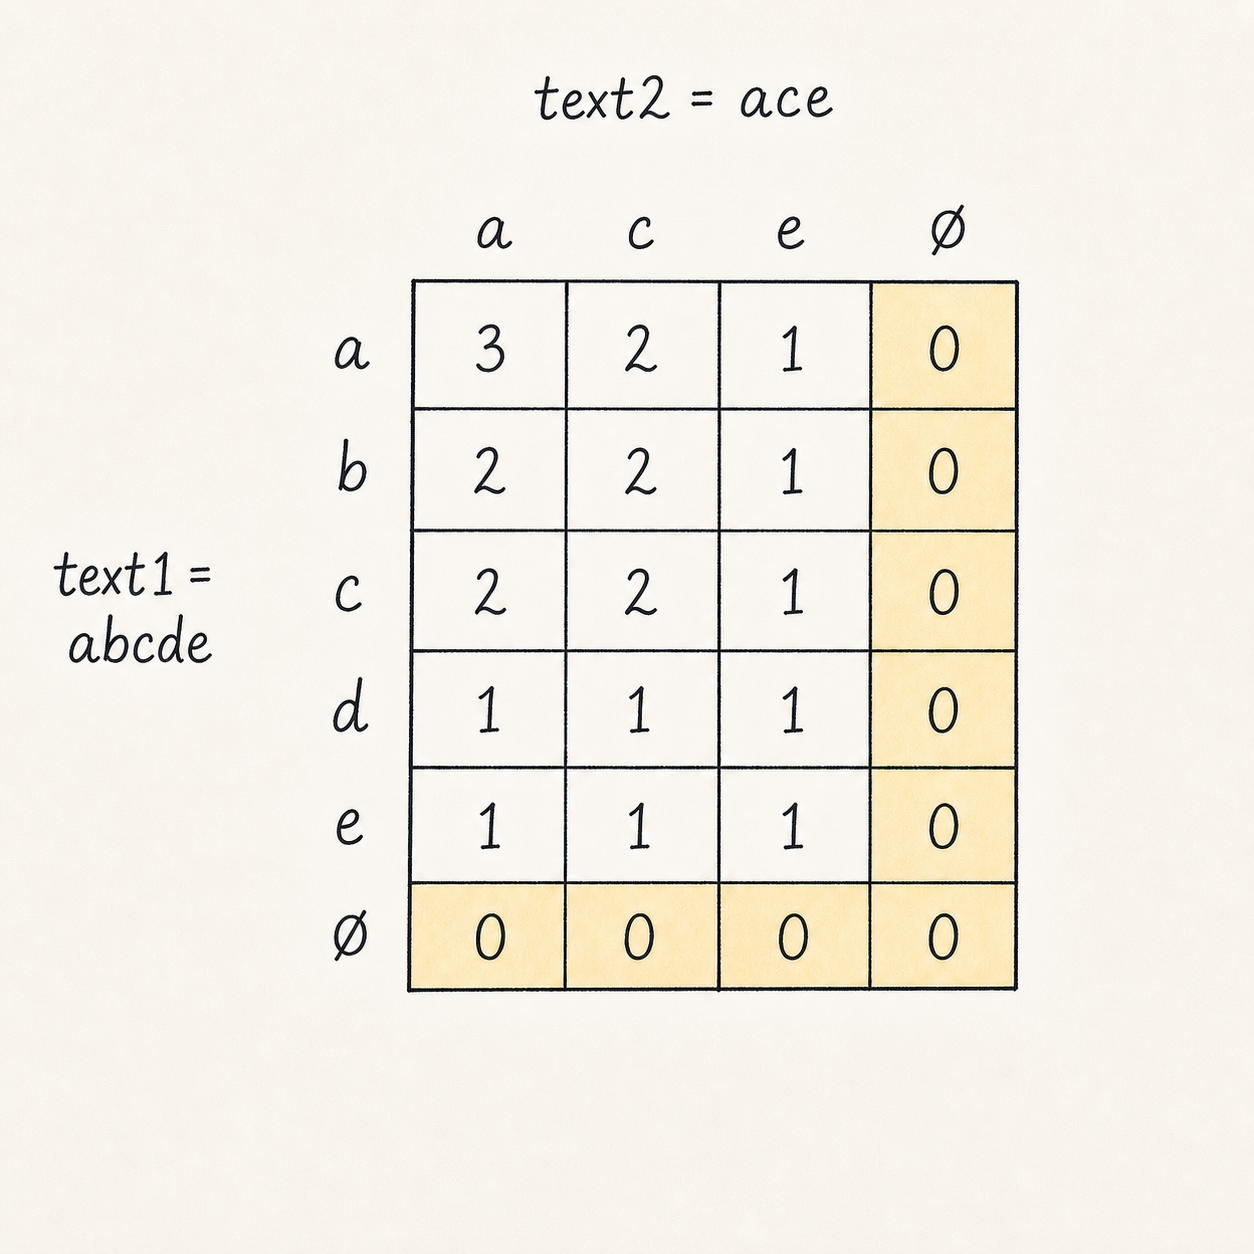
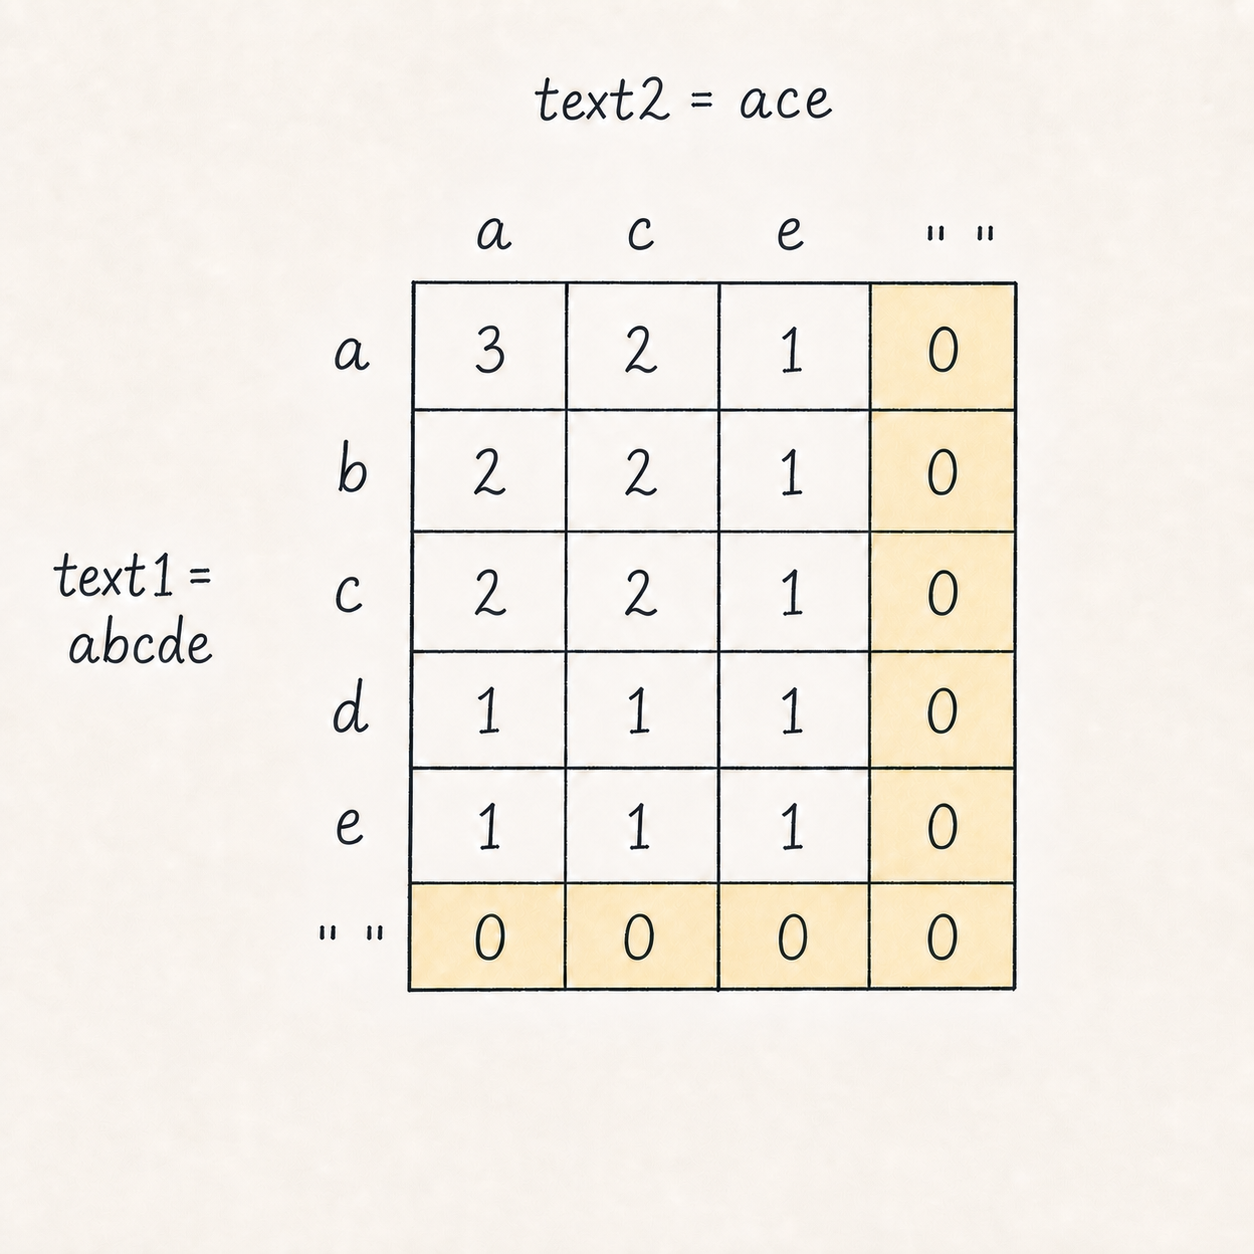
Refine DP blog explanation and table labels

diff --git a/_posts/2026-08-22-top-down-vs-bottom-up-dp.md b/_posts/2026-08-22-top-down-vs-bottom-up-dp.md
@@ -3,7 +3,7 @@ title: "Why Top-Down DP Feels Easier to Derive"
 date: 2026-08-22 00:00:00 +0530
 categories: [Algorithms, Dynamic Programming]
 tags: [dynamic-programming, top-down, bottom-up, memoization, tabulation, lcs]
-description: "Why top-down DP solutions are often easier to derive and remember, and where bottom-up still wins through control and optimization."
+description: "Why top-down DP solutions are often easier to derive and remember, and how bottom-up provides more control and optimization opportunities."
 image:
   path: /assets/img/posts/top-down-vs-bottom-up-dp-cover-v3.png
   alt: A programmer easily retracing a top-down solution while struggling to derive a bottom-up DP table
@@ -40,6 +40,8 @@ A top-down state can be written as:
 solve(i, j)
 ```
 
+Here, `i` represents a position in `text1`, and `j` represents a position in `text2`. Both start at `0`, so the initial state is `solve(0, 0)`.
+
 It asks:
 
 > What is the LCS of the two strings starting at positions `i` and `j`?
@@ -66,9 +68,13 @@ The state and recurrence follow directly from the question:
 ```text
 Do the current characters match?
 
-Yes → count the character and move forward in both strings
-No  → do not count either character yet; move forward in one string at a time and keep the better answer
+Yes → Count the character and move forward in both strings
+No  → Do not count either character yet. Move forward in one string at a time and keep the better answer
 ```
+
+This mirrors how humans naturally reason about a problem: start with the main question, then ask what is needed to achieve the answer. We begin with the target state, `solve(0, 0)`, and ask for the smaller states needed to answer it. We do not need to start by listing every base state or deciding how an entire table should be traversed.
+
+The call stack also handles the dependency order for us. When `solve(i, j)` needs another state, it calls that state and waits for its answer before continuing. The base cases still need to be defined, but there is no need to arrange all subproblems into a global evaluation order or design nested loops before writing the recurrence.
 
 The recursive solution will calculate the same `(i, j)` states more than once, so the next step is to store their answers.
 
@@ -78,7 +84,7 @@ The memoization table also follows naturally from the state:
 memo[i][j] = answer to solve(i, j)
 ```
 
-The state has two changing values: `i`, a position in `text1`, and `j`, a position in `text2`. So the memo table obviously needs two dimensions:
+The state has two changing values: `i`, a position in `text1`, and `j`, a position in `text2`. That makes the table dimensions obvious. This is a two-dimensional DP with one axis for `i` and another for `j`:
 
 ```go
 memo := make([][]int, len(text1))
@@ -90,13 +96,11 @@ for i := range memo {
 }
 ```
 
-This is a two-dimensional DP problem because every unique subproblem is identified by the pair `(i, j)`. The table dimensions were not invented separately; they came directly from the question represented by `solve(i, j)`.
-
 After evaluating `solve(0, 0)` for `"abcde"` and `"ace"`, the memo table looks like this:
 
 <img src="/assets/img/posts/lcs-top-down-memo-table.png" alt="Hand-drawn top-down LCS memoization table" width="500">
 
-Each number is the answer for `solve(i, j)`. A `-` means that state was never requested, so it was never computed. The table is only storage for questions the recursion has already asked; it does not determine how the solution is derived.
+Each number is the answer for `solve(i, j)`. A `-` means that state was never requested, so it was never computed. The table is only storage for questions the recursion has already asked. It does not determine how the solution is derived.
 
 ### Complexity
 
@@ -129,6 +133,7 @@ For the same example, a completed bottom-up solution is often presented as this 
 
 Because the top-down solution has already revealed the state and its dimensions, this table is easy to recognize. But if we had started by trying to solve the problem bottom-up, arriving at this table would require answering several questions first:
 
+- whether this should be a one-dimensional or two-dimensional DP
 - why an extra row and column are needed
 - what values represent the empty-string base cases
 - which neighboring cells each state depends on
@@ -141,14 +146,18 @@ These decisions are not hidden requirements of bottom-up. A careful derivation c
 The top-down recurrence gives us the dependencies, but bottom-up still requires turning those dependencies into a global evaluation order where every required state is ready first:
 
 ```go
-for i := m - 1; i >= 0; i-- {
-    for j := n - 1; j >= 0; j-- {
+i := m - 1
+for i >= 0 {
+    j := n - 1
+    for j >= 0 {
         if text1[i] == text2[j] {
             dp[i][j] = 1 + dp[i+1][j+1]
         } else {
             dp[i][j] = max(dp[i+1][j], dp[i][j+1])
         }
+        j--
     }
+    i--
 }
 ```
 
@@ -166,7 +175,7 @@ Understanding this completed table is not the same as knowing how to derive it. 
 Top-down asks:
 
 ```text
-What answer do I need from these positions?
+What is the LCS from these two positions onward?
 ```
 
 Bottom-up takes the same question and asks:
@@ -175,15 +184,15 @@ Bottom-up takes the same question and asks:
 In what order must every answer be computed?
 ```
 
-Both solve the same dependency structure. Top-down explores the states it needs on demand; bottom-up chooses an explicit order in which to evaluate the required states.
+Both solve the same dependency structure. Top-down explores the states it needs on demand. Bottom-up chooses an explicit order in which to evaluate the required states.
 
 ---
 
 ## Why Bottom-Up Is Still Worth Learning
 
-Optimization is one important answer, but it is not the only one. Bottom-up makes the evaluation order explicit. It also avoids function-call overhead, provides predictable memory access, and often improves locality when most or all states must be computed.
+So why use bottom-up? Once the evaluation order is explicit, it becomes easier to avoid recursion overhead and optimize how the states are stored.
 
-Top-down uses the program's call stack, so sufficiently deep state transitions can hit recursion-depth or stack limits. Bottom-up avoids that class of problem by evaluating the states iteratively.
+Top-down uses the program's call stack, so sufficiently deep state transitions can hit recursion-depth or stack limits and may eventually result in a stack overflow error. Bottom-up avoids that class of problem by evaluating the states iteratively.
 
 The explicit table also makes space optimization easier to see.
 
@@ -217,16 +226,20 @@ During the final iteration, when `i = 0`, the two rows in memory are:
 next := make([]int, n+1)
 curr := make([]int, n+1)
 
-for i := m - 1; i >= 0; i-- {
-    for j := n - 1; j >= 0; j-- {
+i := m - 1
+for i >= 0 {
+    j := n - 1
+    for j >= 0 {
         if text1[i] == text2[j] {
             curr[j] = 1 + next[j+1]
         } else {
             curr[j] = max(next[j], curr[j+1])
         }
+        j--
     }
 
     next, curr = curr, next
+    i--
 }
 
 return next[0]
@@ -249,9 +262,9 @@ The table may not be the most natural place to discover the solution, but it is 
 
 ## The Takeaway
 
-A top-down solution is often easier to arrive at because it begins with the question the problem is asking. When the state maps cleanly to the original question, turning that question into a recursive function often makes the recurrence emerge naturally. Because the code preserves that reasoning, the solution is also easier to reconstruct later.
+A top-down solution is often easier to arrive at because it begins with the question the problem is asking. When the state maps cleanly to the original question, turning that question into a recursive function often makes the recurrence emerge naturally because it matches how humans break a problem into smaller questions. The code preserves that reasoning, which can also make the solution easier to reconstruct later.
 
-A bottom-up table is different. Once the table and transition are explained, the solution may be easy to understand. Deriving that table in the first place is the difficult part. Without remembering a similar solution, it may not be obvious what the table should represent, how large it should be, how it should be initialized, or in which direction it should be filled.
+A bottom-up table is different. Once the table and transition are explained, the solution may be easy to understand. Deriving that table in the first place is the difficult part. Without remembering a similar solution, it may not be obvious what the table should represent, how many dimensions it needs, how large it should be, how it should be initialized, or in which direction it should be filled.
 
 Bottom-up becomes valuable when explicit evaluation order matters: avoiding recursion limits, reducing call overhead, improving memory locality, computing all states efficiently, or compressing the table.
 

diff --git a/content/top_down_vs_bottom_up_dp.md b/content/top_down_vs_bottom_up_dp.md
@@ -31,6 +31,8 @@ A top-down state can be written as:
 solve(i, j)
 ```
 
+Here, `i` represents a position in `text1`, and `j` represents a position in `text2`. Both start at `0`, so the initial state is `solve(0, 0)`.
+
 It asks:
 
 > What is the LCS of the two strings starting at positions `i` and `j`?
@@ -57,9 +59,13 @@ The state and recurrence follow directly from the question:
 ```text
 Do the current characters match?
 
-Yes → count the character and move forward in both strings
-No  → do not count either character yet; move forward in one string at a time and keep the better answer
+Yes → Count the character and move forward in both strings
+No  → Do not count either character yet. Move forward in one string at a time and keep the better answer
 ```
+
+This mirrors how humans naturally reason about a problem: start with the main question, then ask what is needed to achieve the answer. We begin with the target state, `solve(0, 0)`, and ask for the smaller states needed to answer it. We do not need to start by listing every base state or deciding how an entire table should be traversed.
+
+The call stack also handles the dependency order for us. When `solve(i, j)` needs another state, it calls that state and waits for its answer before continuing. The base cases still need to be defined, but there is no need to arrange all subproblems into a global evaluation order or design nested loops before writing the recurrence.
 
 The recursive solution will calculate the same `(i, j)` states more than once, so the next step is to store their answers.
 
@@ -69,7 +75,7 @@ The memoization table also follows naturally from the state:
 memo[i][j] = answer to solve(i, j)
 ```
 
-The state has two changing values: `i`, a position in `text1`, and `j`, a position in `text2`. So the memo table obviously needs two dimensions:
+The state has two changing values: `i`, a position in `text1`, and `j`, a position in `text2`. That makes the table dimensions obvious. This is a two-dimensional DP with one axis for `i` and another for `j`:
 
 ```go
 memo := make([][]int, len(text1))
@@ -81,13 +87,11 @@ for i := range memo {
 }
 ```
 
-This is a two-dimensional DP problem because every unique subproblem is identified by the pair `(i, j)`. The table dimensions were not invented separately; they came directly from the question represented by `solve(i, j)`.
-
 After evaluating `solve(0, 0)` for `"abcde"` and `"ace"`, the memo table looks like this:
 
 <img src="/assets/img/posts/lcs-top-down-memo-table.png" alt="Hand-drawn top-down LCS memoization table" width="500">
 
-Each number is the answer for `solve(i, j)`. A `-` means that state was never requested, so it was never computed. The table is only storage for questions the recursion has already asked; it does not determine how the solution is derived.
+Each number is the answer for `solve(i, j)`. A `-` means that state was never requested, so it was never computed. The table is only storage for questions the recursion has already asked. It does not determine how the solution is derived.
 
 ### Complexity
 
@@ -120,6 +124,7 @@ For the same example, a completed bottom-up solution is often presented as this 
 
 Because the top-down solution has already revealed the state and its dimensions, this table is easy to recognize. But if we had started by trying to solve the problem bottom-up, arriving at this table would require answering several questions first:
 
+- whether this should be a one-dimensional or two-dimensional DP
 - why an extra row and column are needed
 - what values represent the empty-string base cases
 - which neighboring cells each state depends on
@@ -132,14 +137,18 @@ These decisions are not hidden requirements of bottom-up. A careful derivation c
 The top-down recurrence gives us the dependencies, but bottom-up still requires turning those dependencies into a global evaluation order where every required state is ready first:
 
 ```go
-for i := m - 1; i >= 0; i-- {
-    for j := n - 1; j >= 0; j-- {
+i := m - 1
+for i >= 0 {
+    j := n - 1
+    for j >= 0 {
         if text1[i] == text2[j] {
             dp[i][j] = 1 + dp[i+1][j+1]
         } else {
             dp[i][j] = max(dp[i+1][j], dp[i][j+1])
         }
+        j--
     }
+    i--
 }
 ```
 
@@ -157,7 +166,7 @@ Understanding this completed table is not the same as knowing how to derive it. 
 Top-down asks:
 
 ```text
-What answer do I need from these positions?
+What is the LCS from these two positions onward?
 ```
 
 Bottom-up takes the same question and asks:
@@ -166,15 +175,15 @@ Bottom-up takes the same question and asks:
 In what order must every answer be computed?
 ```
 
-Both solve the same dependency structure. Top-down explores the states it needs on demand; bottom-up chooses an explicit order in which to evaluate the required states.
+Both solve the same dependency structure. Top-down explores the states it needs on demand. Bottom-up chooses an explicit order in which to evaluate the required states.
 
 ---
 
 ## Why Bottom-Up Is Still Worth Learning
 
-Optimization is one important answer, but it is not the only one. Bottom-up makes the evaluation order explicit. It also avoids function-call overhead, provides predictable memory access, and often improves locality when most or all states must be computed.
+So why use bottom-up? Once the evaluation order is explicit, it becomes easier to avoid recursion overhead and optimize how the states are stored.
 
-Top-down uses the program's call stack, so sufficiently deep state transitions can hit recursion-depth or stack limits. Bottom-up avoids that class of problem by evaluating the states iteratively.
+Top-down uses the program's call stack, so sufficiently deep state transitions can hit recursion-depth or stack limits and may eventually result in a stack overflow error. Bottom-up avoids that class of problem by evaluating the states iteratively.
 
 The explicit table also makes space optimization easier to see.
 
@@ -208,16 +217,20 @@ During the final iteration, when `i = 0`, the two rows in memory are:
 next := make([]int, n+1)
 curr := make([]int, n+1)
 
-for i := m - 1; i >= 0; i-- {
-    for j := n - 1; j >= 0; j-- {
+i := m - 1
+for i >= 0 {
+    j := n - 1
+    for j >= 0 {
         if text1[i] == text2[j] {
             curr[j] = 1 + next[j+1]
         } else {
             curr[j] = max(next[j], curr[j+1])
         }
+        j--
     }
 
     next, curr = curr, next
+    i--
 }
 
 return next[0]
@@ -240,9 +253,9 @@ The table may not be the most natural place to discover the solution, but it is 
 
 ## The Takeaway
 
-A top-down solution is often easier to arrive at because it begins with the question the problem is asking. When the state maps cleanly to the original question, turning that question into a recursive function often makes the recurrence emerge naturally. Because the code preserves that reasoning, the solution is also easier to reconstruct later.
+A top-down solution is often easier to arrive at because it begins with the question the problem is asking. When the state maps cleanly to the original question, turning that question into a recursive function often makes the recurrence emerge naturally because it matches how humans break a problem into smaller questions. The code preserves that reasoning, which can also make the solution easier to reconstruct later.
 
-A bottom-up table is different. Once the table and transition are explained, the solution may be easy to understand. Deriving that table in the first place is the difficult part. Without remembering a similar solution, it may not be obvious what the table should represent, how large it should be, how it should be initialized, or in which direction it should be filled.
+A bottom-up table is different. Once the table and transition are explained, the solution may be easy to understand. Deriving that table in the first place is the difficult part. Without remembering a similar solution, it may not be obvious what the table should represent, how many dimensions it needs, how large it should be, how it should be initialized, or in which direction it should be filled.
 
 Bottom-up becomes valuable when explicit evaluation order matters: avoiding recursion limits, reducing call overhead, improving memory locality, computing all states efficiently, or compressing the table.
 
